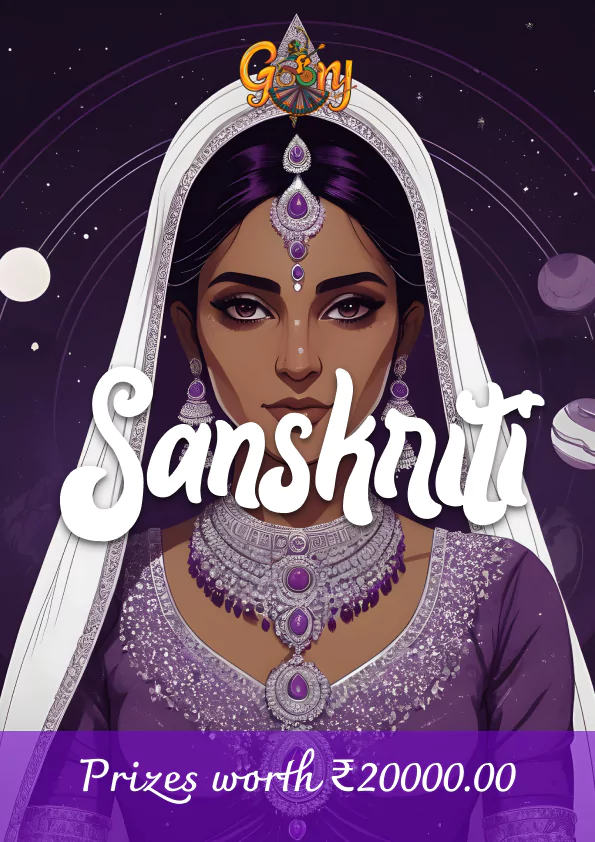
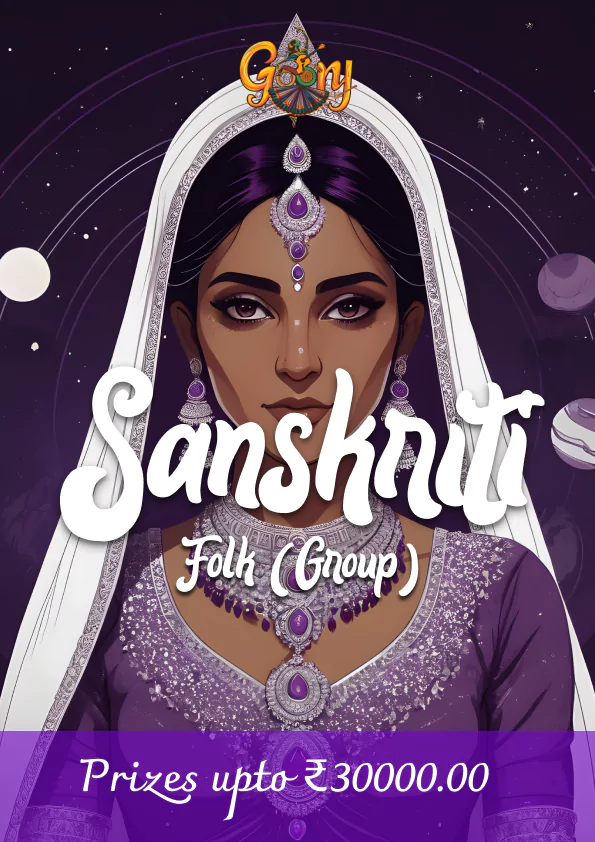
Updated Posters and Prize Money

Changed region(s): [[0.363, 0.8955, 0.8773, 0.9881], [0.2723, 0.6176, 0.7261, 0.7102]]

diff --git a/frontend/src/data/dummydata.js b/frontend/src/data/dummydata.js
@@ -21,7 +21,6 @@ import hop_notch_group from "../assets/Images/EventImages/hop-notch-group.webp"
 import light_painting from "../assets/Images/EventImages/light-painting.webp"
 import mr_miss_goonj from "../assets/Images/EventImages/mr-and-miss-goonj.webp"
 import singing from "../assets/Images/EventImages/singing.webp"
-import TEDx from "../assets/Images/EventImages/tedx-talks.webp"
 import qawalli from "../assets/Images/EventImages/qawalli.webp"
 import reel_mania from "../assets/Images/EventImages/reel-mania.webp"
 import standup from "../assets/Images/EventImages/standup-comedy.webp"
@@ -31,11 +30,14 @@ import open_mic from "../assets/Images/EventImages/open-mic.webp"
 import salsa from "../assets/Images/EventImages/salsa.webp"
 import esport from "../assets/Images/EventImages/e-sports.webp"
 import step_up from "../assets/Images/EventImages/step-up.webp"
+import ggt from "../assets/Images/EventImages/ggt.webp"
+import tug_of_war from "../assets/Images/EventImages/tug-of-war.webp"
+
 
 export const data = [
     {
     id:1,
-    name:"DRAMAFLICT - Prizes upto ₹20K",
+    name:"DRAMAFLICT - Prizes upto ₹10K",
     img:img1,
     Event:[
     {
@@ -103,7 +105,7 @@ export const data = [
 },
 {
     id:3,
-    name:"FOOTLOOSE",
+    name:"FOOTLOOSE - Prizes upto ₹10K",
     img:img1,
     Event:[
         {
@@ -130,7 +132,7 @@ export const data = [
 },
 {
     id:4,
-    name:"FLASHMOB",
+    name:"FLASHMOB - Prizes upto ₹20K",
     img:img3,
     Event:[
         {
@@ -161,7 +163,7 @@ export const data = [
 },
 {
     id:5,
-    name:"SALSAA",
+    name:"SALSAA - Prizes upto ₹5K",
     img:img3,
     Event:[
         {
@@ -192,7 +194,7 @@ export const data = [
 
 {
     id:7,
-    name:"BATTLES - Prizes upto ₹25K",
+    name:"BATTLES - Prizes upto ₹10K",
     img:img1,
     Event:[
         {
@@ -218,7 +220,7 @@ export const data = [
 
 {
     id:8,
-    name:"BAND EVENTS",
+    name:"BAND EVENTS - Prizes upto ₹6K",
     img:img1,
     Event:[
         {
@@ -276,21 +278,12 @@ export const data = [
 
         judging:"Creativity + Originality + Language proficiency"
         },
-        {
-        id:904,
-        name:"TEDx TALKS",
-        img:TEDx
-        ,
-        description:"Grab a pen and paper, drop into an ocean of words, and  compose a symphony of thoughts and emotions. Whether  you're an experienced poet or just discovering the power of words, Alfaaz-e-Kalam is your chance to shine. Unleash  your inner poet, share your poetry, and participate in an  exciting event. Come join us for a lyrical celebration in  which each phrase represents a step towards poetic  excellence.",
-        topics:[],
-        guidelines:[  "Mode of language: Hindi.",  "All entries should be original, and plagiarism will result in immediate disqualification.",  "Submissions should be typed and submitted in PDF format.",  "There is no specific theme for the competition.",  "A poem or Shayari should not violate any religion, community, caste, or other aspect of social or cultural sensitivity. The use of any abusive or obscene language is prohibited.",  "Poetry entries should not exceed 30 lines.",  "Late submissions will not be considered."],
-
-        judging:"Creativity + Originality + Language proficiency"},
+       
     ]
 },
 {
     id:10,
-    name:"VIDEO & PHOTOGRAPHY EVENTS (only for GBPIET Students)",
+    name:"VIDEO & PHOTOGRAPHY EVENTS (only for GBPIET Students) - Prizes upto ₹10K",
     img:img3,
     Event:[
         {
@@ -342,7 +335,7 @@ export const data = [
 },
 {
     id:11,
-    name:"OPEN EVENTS - Prizes upto ₹30K",
+    name:"OPEN EVENTS - Prizes upto ₹45K",
     img:img3,
     Event:[
         {
@@ -385,6 +378,24 @@ export const data = [
         id:1105,
         name:"Step Up",
         img:step_up,
+        description:"Unleash your gaming Prowess",
+        topics:[],
+        guidelines:[""],
+        judging:""
+    },
+    {
+        id:1106,
+        name:"Tug of War",
+        img:tug_of_war,
+        description:"Unleash your gaming Prowess",
+        topics:[],
+        guidelines:[""],
+        judging:""
+    },
+    {
+        id:1107,
+        name:"Goonj Got Talent",
+        img:ggt,
         description:"Unleash your gaming Prowess",
         topics:[],
         guidelines:[""],
